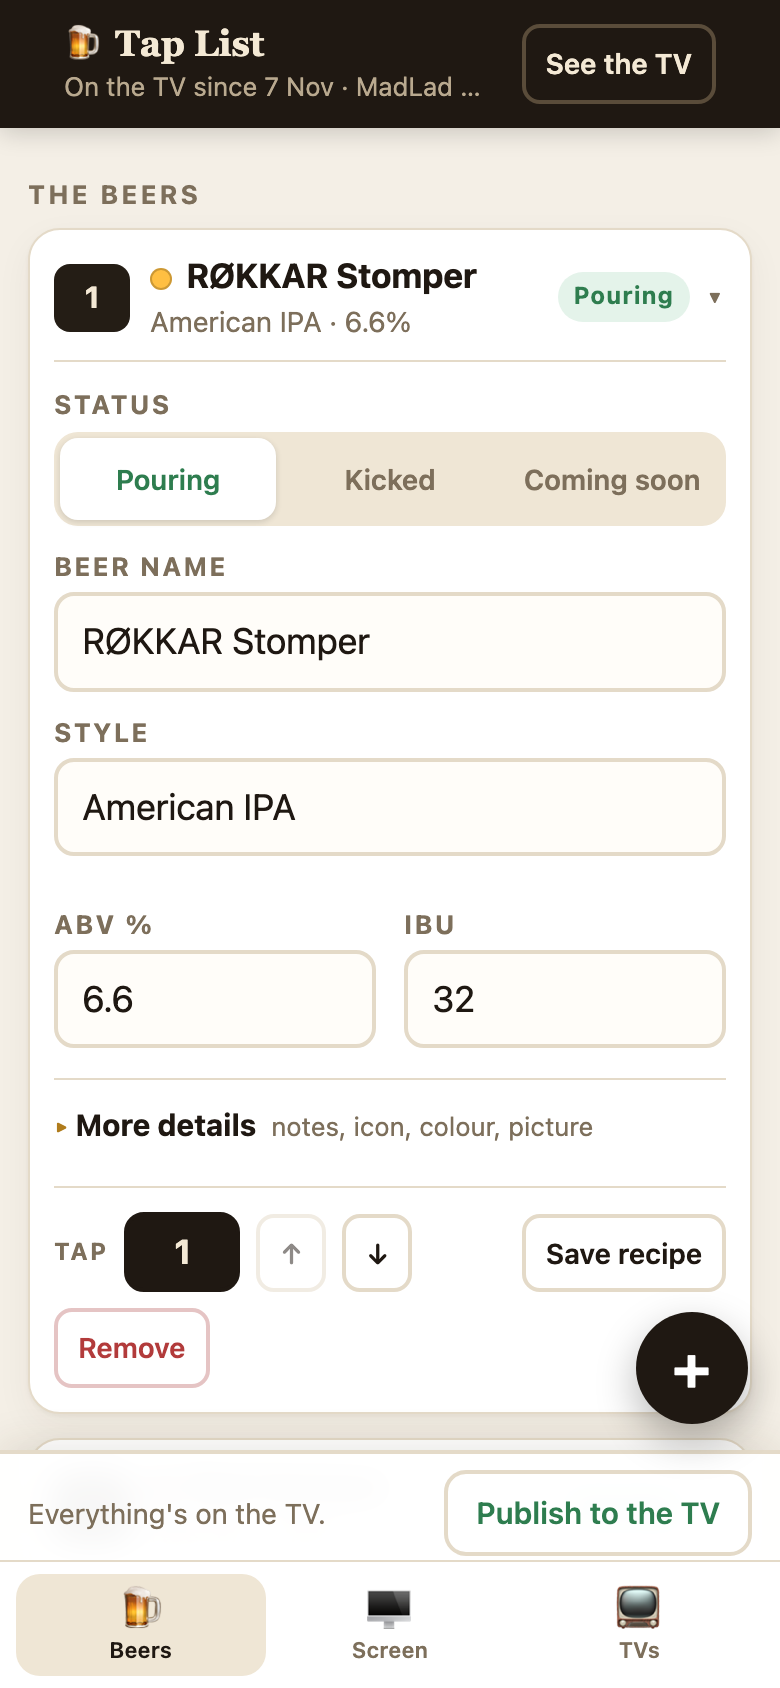
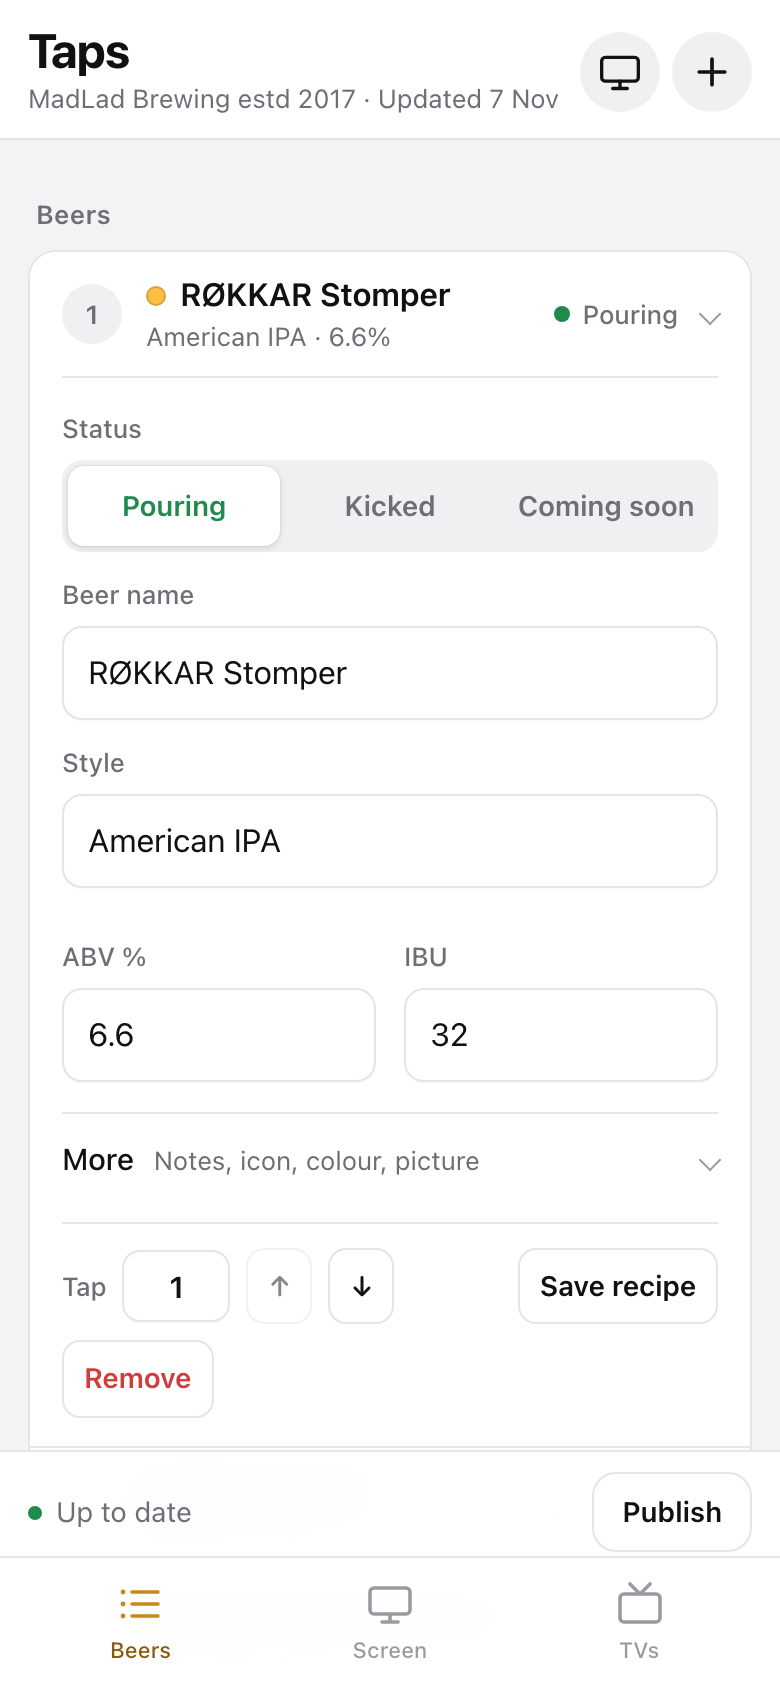
Refresh the screens page for the new look

diff --git a/shots/index.html b/shots/index.html
@@ -4,33 +4,33 @@
 <meta charset="utf-8">
 <meta name="viewport" content="width=device-width, initial-scale=1">
 <title>Tap List app — screens</title>
-<meta name="theme-color" content="#1f1812">
+<meta name="theme-color" content="#f3f3f5">
 <link rel="icon" href="../favicon.svg">
 <style>
   *{box-sizing:border-box;margin:0;padding:0}
-  body{background:#1f1812;color:#f4e9d5;font-family:-apple-system,BlinkMacSystemFont,"Segoe UI",Roboto,Arial,sans-serif;padding:18px 14px 40px}
-  h1{font-family:Georgia,serif;font-size:22px;margin-bottom:4px}
-  p.sub{color:#b9a98f;font-size:14px;margin-bottom:18px}
-  p.sub a{color:#e2c58c}
+  body{background:#f3f3f5;color:#111114;font-family:-apple-system,BlinkMacSystemFont,"Segoe UI",Roboto,Arial,sans-serif;padding:18px 14px 40px}
+  h1{font-size:24px;font-weight:700;letter-spacing:-.02em;margin-bottom:4px}
+  p.sub{color:#6e6e76;font-size:14px;margin-bottom:18px}
+  p.sub a{color:#8a5a0c}
   .grid{display:grid;grid-template-columns:repeat(auto-fill,minmax(260px,1fr));gap:18px}
-  figure{background:#2b231b;border-radius:16px;padding:10px;display:flex;flex-direction:column;gap:8px}
-  figure img{width:100%;height:auto;border-radius:10px;display:block;background:#f4efe6}
-  figcaption{font-size:14px;line-height:1.35;color:#e8dcc6}
-  figcaption b{display:block;color:#fff;margin-bottom:2px}
+  figure{background:#fff;border:1px solid #e4e4e9;border-radius:14px;padding:10px;display:flex;flex-direction:column;gap:8px}
+  figure img{width:100%;height:auto;border-radius:10px;display:block;background:#f3f3f5;border:1px solid #e4e4e9}
+  figcaption{font-size:14px;line-height:1.35;color:#6e6e76}
+  figcaption b{display:block;color:#111114;margin-bottom:2px}
   .wide{grid-column:1 / -1}
 </style>
 </head>
 <body>
-<h1>🍺 Tap List — the app</h1>
+<h1>Taps — the app</h1>
 <p class="sub">Live at <a href="../edit.html">jesse372.github.io/beer-tap-list/edit.html</a>. On an iPhone: Safari → Share → Add to Home Screen.</p>
 <div class="grid">
-  <figure><img src="1-beers.png" alt=""><figcaption><b>Beers</b>One row per beer with its colour, style, ABV and status. The + adds a beer. The publish bar stays quiet while everything matches the TV.</figcaption></figure>
+  <figure><img src="1-beers.png" alt=""><figcaption><b>Beers</b>One row per beer with its colour, style, ABV and status. The + in the header adds a beer. The publish bar stays quiet while everything matches the TV.</figcaption></figure>
   <figure><img src="2-open-beer.png" alt=""><figcaption><b>Open a beer</b>Pouring / Kicked / Coming soon comes first, then name, style, ABV and IBU.</figcaption></figure>
   <figure><img src="3-kicked-unpublished.png" alt=""><figcaption><b>Kick a keg</b>One tap. The row strikes through and the publish bar grows into a full-width Publish with Undo.</figcaption></figure>
   <figure><img src="4-more-details.png" alt=""><figcaption><b>More details</b>Notes, icon, colour, picture and prices fold away until needed.</figcaption></figure>
   <figure><img src="5-screen-tab.png" alt=""><figcaption><b>Screen tab</b>TV preview, print menu, screen settings, food &amp; merch.</figcaption></figure>
   <figure><img src="6-tvs-tab.png" alt=""><figcaption><b>TVs tab</b>The hourly gag switch and the laugh button, with the Telly page a tap away.</figcaption></figure>
-  <figure><img src="7-telly.png" alt=""><figcaption><b>Telly</b>Hours for the hourly gag, next gag, jumble, write a line, show a photo.</figcaption></figure>
+  <figure><img src="7-telly.png" alt=""><figcaption><b>TVs page</b>Hours for the hourly gag, next gag, jumble, write a line, show a photo.</figcaption></figure>
   <figure class="wide"><img src="8-desktop.png" alt=""><figcaption><b>Laptop</b>Same card order and status control; everything on one page as before.</figcaption></figure>
 </div>
 </body>
